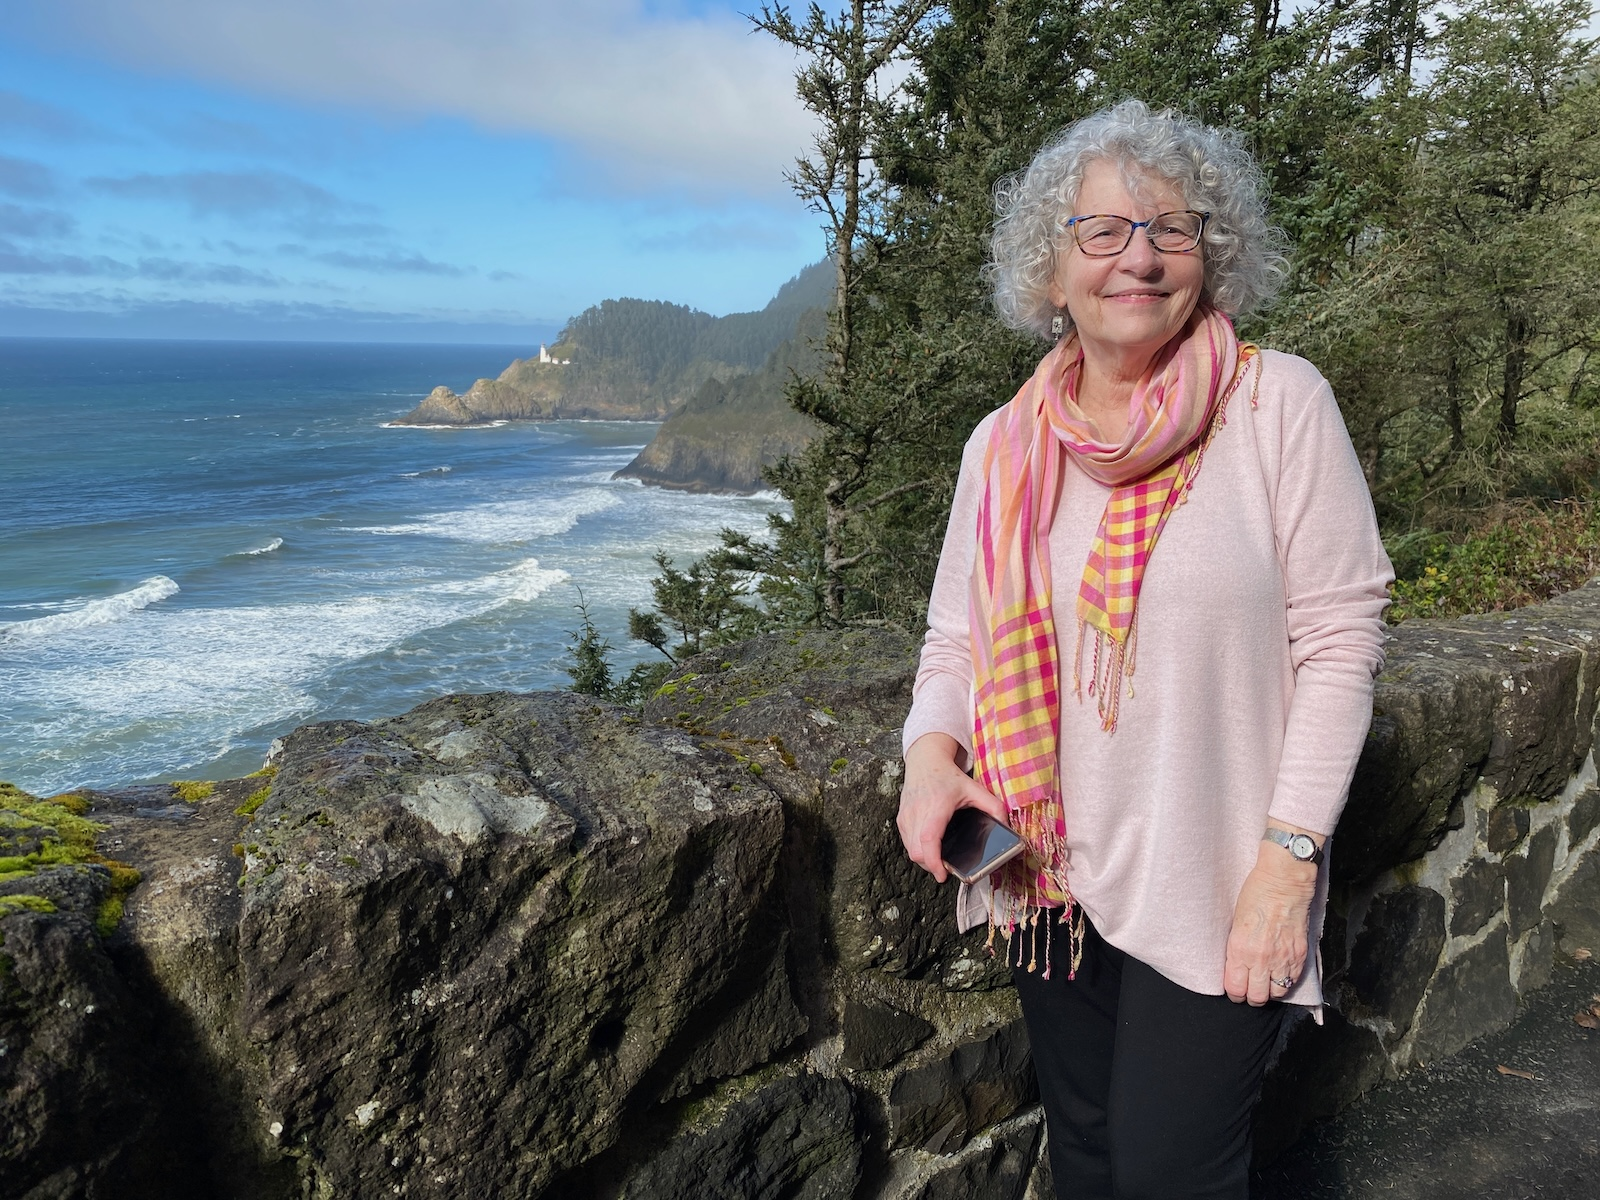
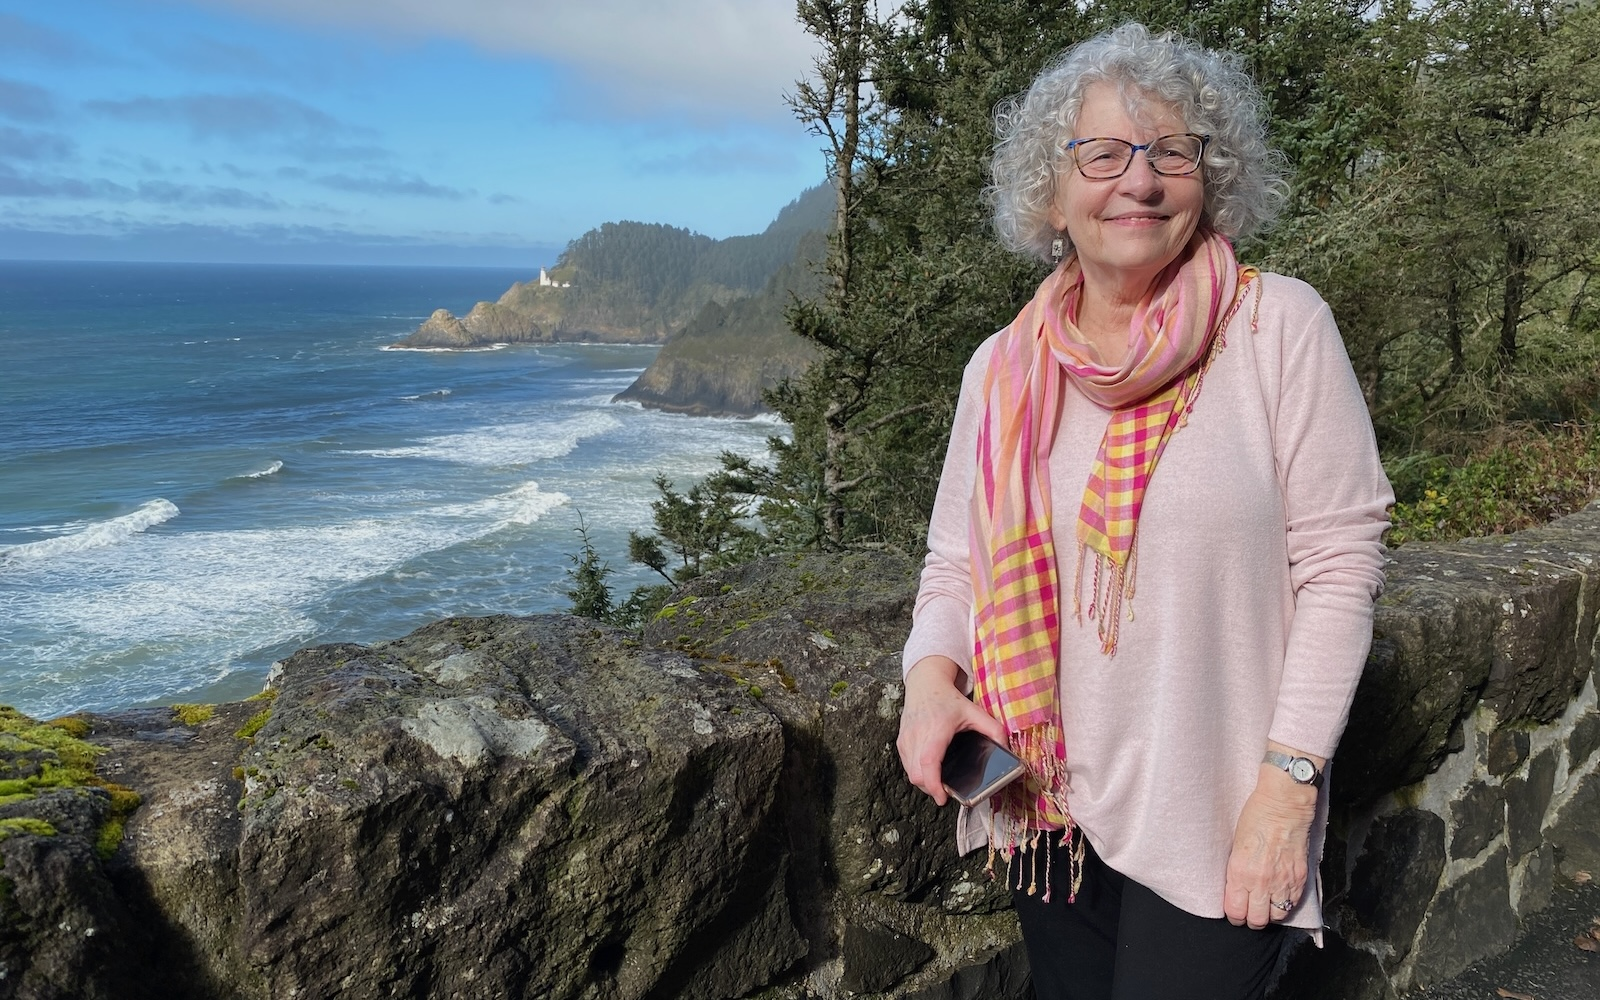
better og image

diff --git a/events/leslie-duke-80th-birthday-party.html b/events/leslie-duke-80th-birthday-party.html
@@ -1,7 +1,7 @@
 ---
 layout: default
 title: Leslie's 80th Birthday Party - August 22nd - Rockaway Beach, OR
-image: "/images/events/leslie-duke-80th-birthday.jpeg"
+image: "/images/events/mama-duke-bday-girl.jpeg"
 excerpt: "Leslie will be turning 80 this year, and we can't wait to celebrate with her!"
 ---
 <div class="row">
